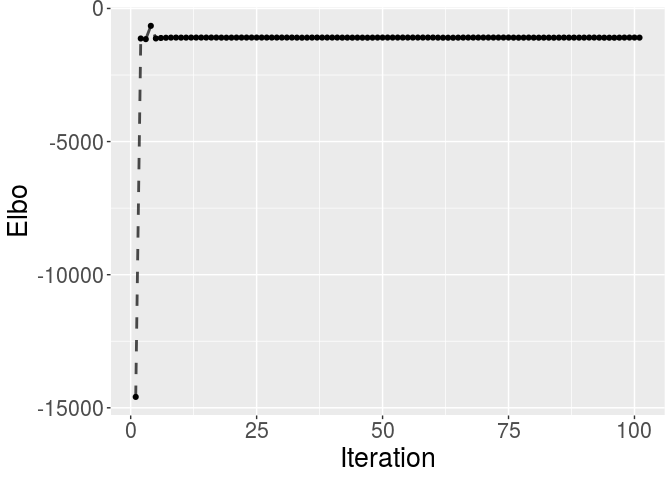
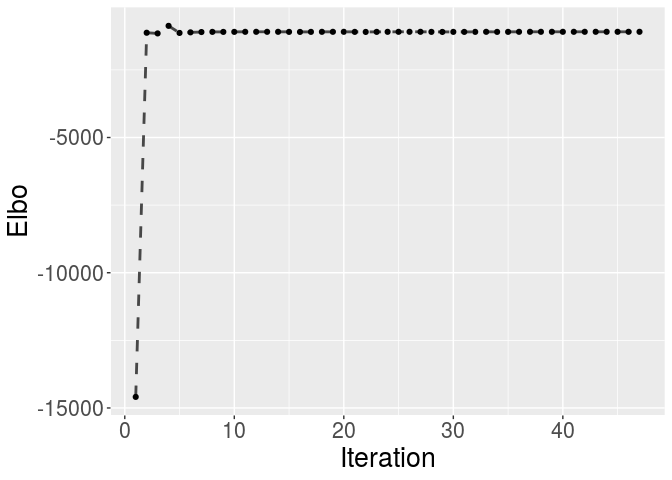
add simulation 4.2 example

diff --git a/README.md b/README.md
@@ -8,6 +8,20 @@ status](https://travis-ci.com/nicolasJouvin/FisherEM.svg?branch=master)](https:/
 > New version of the FisherEM package with the Bayesian Fisher EM
 > implemented.
 
+<!-- Not math in github md files -->
+
+<!-- ## The Bayesian Discriminative Latent Mixture model -->
+
+<!-- \begin{align*} -->
+
+<!--  \mu_k & \sim \mathcal{N}_d(0_d, \lambda I_d), \\ -->
+
+<!--  x_i & \sim \sum_k \pi_k  \mathcal{N}_d(\mu_k, \Sigma_k), \\ -->
+
+<!--  y_i \mid x_i, \epsilon_i & \sim \mathcal{N}_p(U x_i, U \Sigma_k U^\top). -->
+
+<!-- \end{align*} -->
+
 ## Installation
 
 ### R Package installation
@@ -51,7 +65,7 @@ remotes::install_github("nicolasJouvin/FisherEM")
 
 ## New features
 
-#### Simulation function
+### Simulation function
 
 We added the script to simulate and reproduce of the BFEM chapter, 3
 simulations are available.
@@ -64,11 +78,11 @@ simu = simu_bfem(n, which = "Chang1983")
 # Section 4.2: 
 p = 50
 noise = 1
-simu = simu_bfem(n = n, which = "section4.2", p = p, noise = noise)
+simu = simu_bfem(n = 900, which = "section4.2", p = p, noise = noise)
 
 # Section 4.3: 
 snr = 3
-simu = simu_bfem(n=n, which = "section4.2", snr)
+simu = simu_bfem(n=900, which = "section4.2", snr)
 ```
 
 #### The Bayesian Fisher-EM algorithm
@@ -100,3 +114,42 @@ ggspace
 ```
 
 ![](man/figures/subspace-1.png)<!-- -->
+
+#### High-dimensional example
+
+Simulate from the frequentist DLM model with K=3 clusters. The latent
+space is of dimension d=2, and the other (p-d) dimensions are centered
+Gaussians with variance `noise`. <!-- \begin{align*} -->
+<!--    \mu_k = 3 \; (0, k)^\top  & &  \Sigma_{k} = \begin{pmatrix} -->
+<!--    1.5 & 0.75 \\ --> <!--    0.75 & 0.45 -->
+<!--    \end{pmatrix} & & \pi = (0.4, 0.3, 0.3)^\top. -->
+<!-- \end{align*} -->
+
+``` r
+simu = simu_bfem(n = 900, which = "section4.2", p = 50, noise = 1)
+Y = simu$Y
+cl_true = simu$cl_true
+
+# plot true subspace in 2-d
+df.true = data.frame(simu$X, Cluster = factor(simu$cls))
+ggtrue = ggplot(df.true, aes(x = X1, y=X2, col=Cluster, shape=Cluster)) +
+  geom_point(size = 2) +
+  scale_color_brewer(palette="Set2")  # color-blind friendly palette
+print(ggtrue)
+```
+
+![](man/figures/example-section4.2-1.png)<!-- --> And then cluster the
+data with the BFEM algorithm.
+
+``` r
+res.bfem = bfem(simu$Y, K=3, model = 'DB', nstart = 10, method="gs")
+
+cat('Init ARI : ', aricode::ARI(simu$cls, max.col(res.bfem$Tinit)))
+## Init ARI :  0.3911219
+cat('Final ARI : ', aricode::ARI(simu$cls, res.bfem$cls))
+## Final ARI :  0.9613067
+
+plot(res.bfem, type = "subspace")
+```
+
+![](man/figures/bfem-section4.2-1.png)<!-- -->
